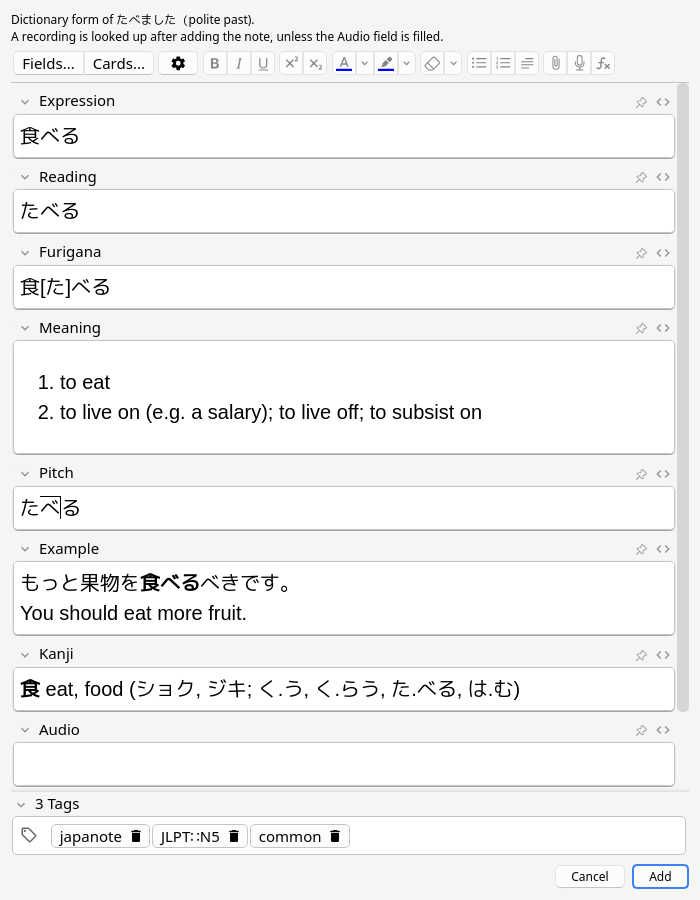
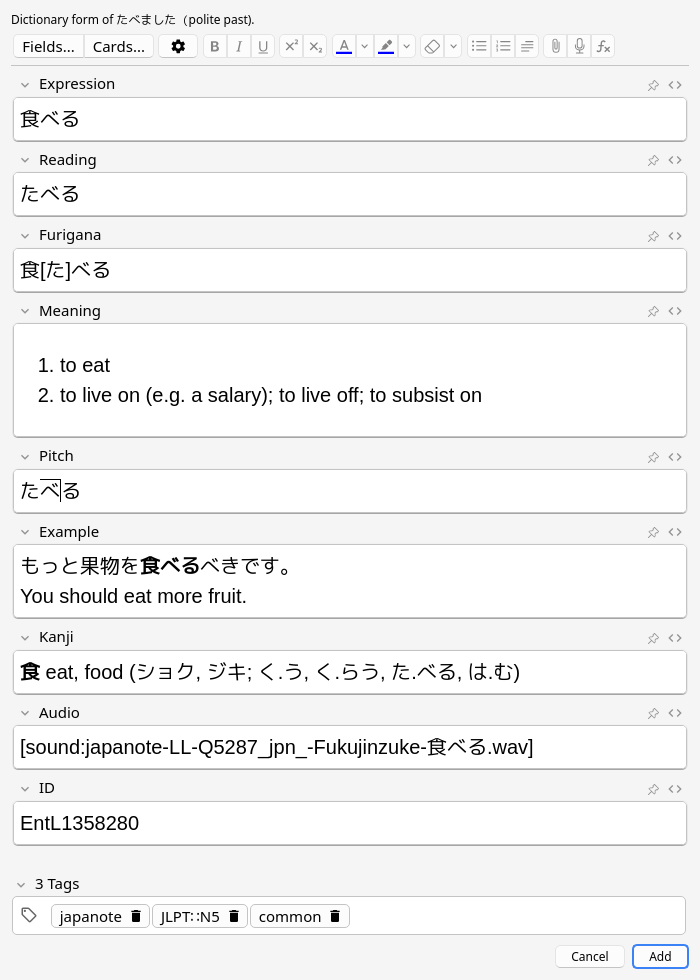
Show the recording, and every field, in the screenshot of the preview

diff --git a/tools/e2e/screenshots.py b/tools/e2e/screenshots.py
@@ -149,7 +149,13 @@ def _() -> Wait:
 @steps.append
 def _() -> Wait:
     preview = PreviewWindow.instance
-    preview.resize(700, 900)
+    preview.resize(700, 980)
+    # the recording, which the preview looks for
+    return lambda: preview.note['Audio']
+
+
+@steps.append
+def _() -> Wait:
     return after(1)
 
 
